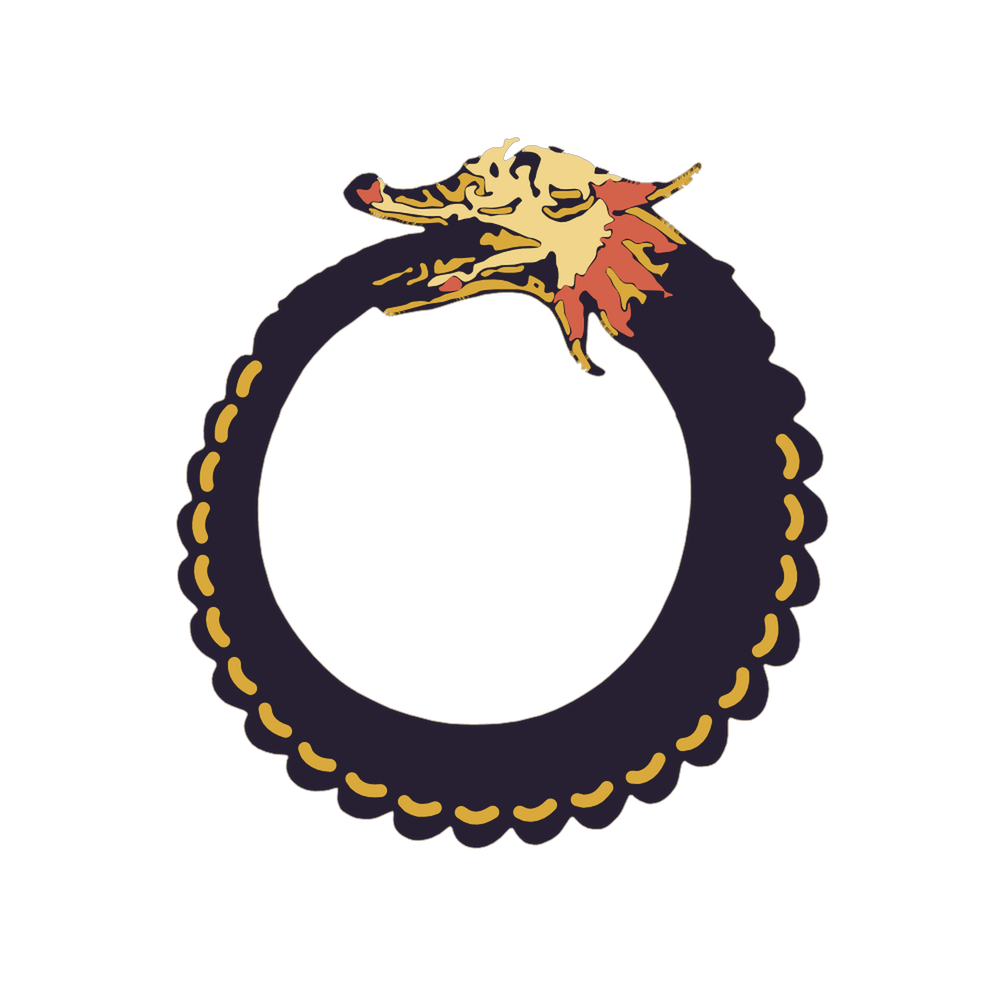
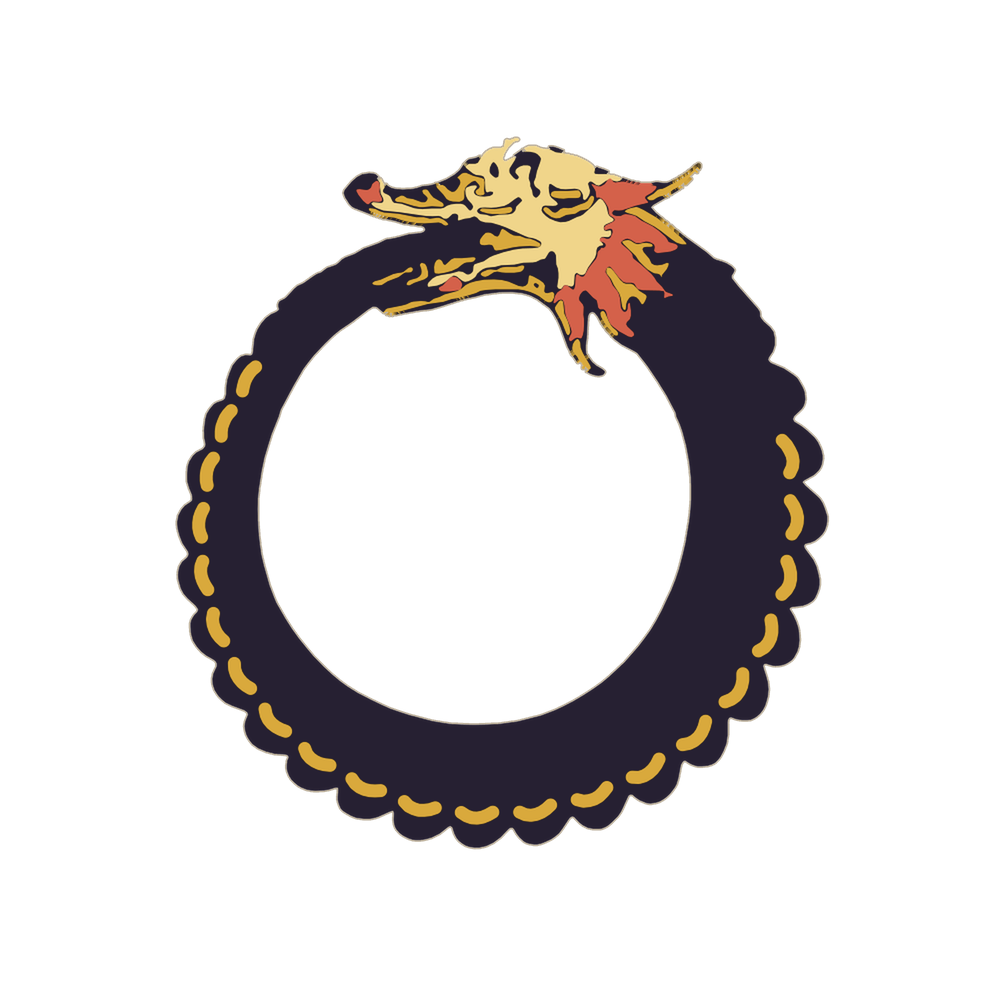
HP-02: contrast in the figure measured and corrected; label placement; per-frame writes; Night contour
- rings and the tree's lines to --paper-faint (3:1 for a graphic); the lens sets back by tone, not opacity; a due label on an outer ring is no longer dimmed
- settleLabels(): a collision-aware pass over core, ring and due labels, capped so a label never reads as its neighbour's
- set() writes only what changed (JS per frame at 6x CPU: 4.3 -> 2.5 ms median)
- Night contour 0.85 -> 1.5 source px (2.6:1 -> 4.6:1 on a 1x screen)

Claude-Session: https://claude.ai/code/session_01Adgg7ZJ3R4V7yc68CAmixn

diff --git a/prototypes/homepage/homepage.js b/prototypes/homepage/homepage.js
@@ -56,7 +56,12 @@ function svg(tag, attrs = {}, parent) {
   if (parent) parent.appendChild(n);
   return n;
 }
-function set(n, attrs) { for (const [k, v] of Object.entries(attrs)) n.setAttribute(k, typeof v === 'number' ? f2(v) : v); }
+/* writes only what changed: most elements are still for most of the opening, and a write that changes nothing still costs a style invalidation (HP-02, timing under CPU throttling) */
+const lastSet = new WeakMap();
+function set(n, attrs) {
+  let m = lastSet.get(n); if (!m) lastSet.set(n, m = {});
+  for (const [k, v] of Object.entries(attrs)) { const val = typeof v === 'number' ? f2(v) : v; if (m[k] !== val) { m[k] = val; n.setAttribute(k, val); } }
+}
 const store = {
   get(k) { try { return localStorage.getItem(k); } catch (e) { return null; } },
   set(k, v) { try { localStorage.setItem(k, v); } catch (e) { /* private mode */ } },
@@ -379,6 +384,8 @@ async function buildFigure() {
   const beadEls = beads.beads.map(() => svg('ellipse', { rx: 0, ry: 0, opacity: 0, class: 'bead' }, L.mark));
 
   /* ---- one frame of the opening */
+  let tkNext = null, sideOp = null;
+  const sidePanels = [...document.querySelectorAll('.hp-side')];
   const gold = () => (theme() === 'light' ? [184, 145, 58] : [217, 169, 60]);
   function frame(t) {
     /* the mark grows and turns counter-clockwise, head first, from upside down */
@@ -400,7 +407,7 @@ async function buildFigure() {
       const r0 = Math.hypot(x0, y0), a = Math.atan2(y0, x0), r = r0 + (RC - r0) * mv, sz = kk * (1 - 0.3 * mv);
       const X = CX + r * Math.cos(a), Y = CY + r * Math.sin(a);
       set(beadEls[i], { cx: X, cy: Y, rx: b[2] * sz, ry: b[3] * sz, transform: `rotate(${f2(b[4] + rot)} ${f2(X)} ${f2(Y)})`, opacity: on * (1 - gone) });
-      beadEls[i].setAttribute('fill', col);
+      if (beadEls[i].__fill !== col) { beadEls[i].__fill = col; beadEls[i].setAttribute('fill', col); }
     });
     /* the tree, drawn in reading order */
     for (const l of treeLines) set(l.el, { 'stroke-dashoffset': 1 - lin(t, l.st, l.st + 0.25) });
@@ -418,7 +425,7 @@ async function buildFigure() {
       r.dots.forEach((d) => set(d, { opacity: seg(t, r.d, r.d + 0.4) }));
     }
     /* one link back to the ticker's next deadline, once */
-    const tk = $('.sop-ticker .tk-next');
+    const tk = tkNext || (tkNext = $('.sop-ticker .tk-next'));
     if (tk) tk.classList.toggle('hp-lit', t >= 2.75 && t < 3.6);
     const qq = lin(t, 2.75, 3.35);
     for (const c of coreEls) {
@@ -427,7 +434,7 @@ async function buildFigure() {
     }
     /* the panels settle in last */
     const settle = seg(t, 2.6, 3.0);
-    for (const p of document.querySelectorAll('.hp-side')) p.style.opacity = String(settle);
+    const so = String(settle); if (so !== sideOp) { sideOp = so; for (const p of sidePanels) p.style.opacity = so; }
   }
 
   /* ---- interactions: hover and focus name a part or an instrument */
@@ -537,6 +544,60 @@ async function buildFigure() {
     (noPart.length ? `<p class="hp-k">Core instruments with no part of the brief recorded</p><ul>${noPart.map(instLi).join('')}</ul>` : '') +
     ['mapped', 'watched', 'excluded'].map((k) => `<p class="hp-k">${k} · ${outer[k].length}</p><p class="hp-list-names">${outer[k].map((i) => esc(i.short_name) + (counted.has(i.id) ? ` (adjacent, ${esc(taxLabel(ix, statusPart(i)) || 'status not recorded')})` : '')).join(' · ')}</p>`).join('');
   if (window.matchMedia('(max-width: 640px)').matches) $('#hpList').open = true;
+
+  /* ---- labels: a greedy pass that moves a label which would sit on a mark or on another label (HP-02).
+     It measures every label and mark in BOTH lens states (the due dates widen a label), then tries small shifts of each core
+     and ring label in order of distance and keeps the first that clears everything by MARGIN units. Placement only: nothing here
+     reads or writes data. What it moved and what it could not resolve is left in window.__hpLabels, for the review recordings. */
+  function settleLabels() {
+    const MARGIN = 3, MAXMOVE = 26, lensOn = fig.classList.contains('lens-due');
+    const marks = [...fig.querySelectorAll('a.mk, g.dot-g .mk-in, g.dot-g circle.duering')];
+    const texts = [...fig.querySelectorAll('text.lb, text.ring-lb, text.cap')];
+    const box = new Map();
+    for (const on of [false, true]) {
+      fig.classList.toggle('lens-due', on);
+      for (const e of [...marks, ...texts]) {
+        const b = e.getBBox(); if (!b.width && !b.height) continue;          // not rendered in this state
+        const o = { x: b.x, y: b.y, r: b.x + b.width, b: b.y + b.height }, u = box.get(e);
+        box.set(e, u ? { x: Math.min(u.x, o.x), y: Math.min(u.y, o.y), r: Math.max(u.r, o.r), b: Math.max(u.b, o.b) } : o);
+      }
+    }
+    fig.classList.toggle('lens-due', lensOn);
+    const hit = (a, b) => a.x < b.r + MARGIN && b.x < a.r + MARGIN && a.y < b.b + MARGIN && b.y < a.b + MARGIN;
+    const shifted = (b, dx, dy) => ({ x: b.x + dx, y: b.y + dy, r: b.r + dx, b: b.b + dy });
+    const dueOnly = [...fig.querySelectorAll('text.lb.due-only')].map((el) => {
+      const gx = +el.getAttribute('x') + 14, gy = +el.getAttribute('y') - 4, d = Math.hypot(gx - CX, gy - CY) || 1;   // the due label sits left of its dot: move it away from the centre
+      return { el, own: el.parentNode.querySelector('.mk-in'), max: 34, ax: (gx - CX) / d, ay: (gy - CY) / d };   // beside its own dot, so it may travel a little further
+    });
+    const movers = [
+      ...dueOnly,
+      ...coreEls.map((c) => ({ el: c.lb, own: c.el, ax: Math.cos(rad(c.a)), ay: Math.sin(rad(c.a)) })),
+      ...ringEls.map((r) => ({ el: r.lb, own: null, ax: 1, ay: 0 })),
+    ];
+    const report = { moved: [], unresolved: [] };
+    for (const m of movers) {
+      const b0 = box.get(m.el); if (!b0) continue;
+      const tx = -m.ay, ty = m.ax;                                         // the tangent
+      const cands = [];
+      const hw = (b0.r - b0.x) / 2 + 4;                                   // half the label: start or end it at its own mark instead of centring on it
+      for (const r of [0, 6, 12, 18, 24, 32]) for (const t of [0, 8, -8, 16, -16, 24, -24, 36, -36, hw, -hw]) cands.push([m.ax * r + tx * t, m.ay * r + ty * t]);
+      /* a label stays within MAXMOVE of where it was: further, it reads as the name of the NEXT mark along, which is worse than touching */
+      cands.sort((p, q) => Math.hypot(...p) - Math.hypot(...q));
+      while (cands.length && Math.hypot(...cands[cands.length - 1]) > (m.max || MAXMOVE)) cands.pop();
+      const others = [...marks.filter((e) => e !== m.own).map((e) => box.get(e)), ...texts.filter((e) => e !== m.el).map((e) => box.get(e))].filter(Boolean);
+      const ok = ([dx, dy]) => { const c = shifted(b0, dx, dy); return !others.some((o) => hit(c, o)); };
+      const pick = cands.find(ok);
+      const name = (m.el.textContent || '').trim().slice(0, 28);
+      if (!pick) { report.unresolved.push(name); continue; }
+      if (pick[0] || pick[1]) {
+        m.el.setAttribute('x', String(+m.el.getAttribute('x') + pick[0])); m.el.setAttribute('y', String(+m.el.getAttribute('y') + pick[1]));
+        box.set(m.el, shifted(b0, pick[0], pick[1])); report.moved.push([name, Math.round(pick[0] * 10) / 10, Math.round(pick[1] * 10) / 10]);
+      }
+    }
+    window.__hpLabels = report;
+  }
+  await document.fonts.ready;
+  settleLabels();
 
   /* ---- play the opening once, or show the figure as it ends */
   let raf = 0;

diff --git a/prototypes/homepage/homepage.css b/prototypes/homepage/homepage.css
@@ -60,12 +60,13 @@
 .hp-cap-list{list-style:none;margin:0;padding:0;display:grid;gap:4px;font-family:var(--mono);font-size:11px;color:var(--paper)}
 
 /* ---------- the figure */
-.hp-fig .ring{fill:none;stroke:var(--ink-3);stroke-width:1.2}
+/* the rings and the tree's lines are the figure's structure: --paper-faint, the site's own AA-cleared tertiary tone, reaches 3:1 for a graphic where --ink-3 (1.3-1.6:1) did not (HP-02, measured) */
+.hp-fig .ring{fill:none;stroke:var(--paper-faint);stroke-width:1.2}
 .hp-fig .ring.dash{stroke-dasharray:4 4}
 .hp-fig .ring-lb{font-family:var(--mono);font-size:9px;letter-spacing:.1em;fill:var(--paper-faint)}
 .hp-fig .disc{fill:var(--live);fill-opacity:.06;stroke:var(--paper);stroke-width:1.6}
 body[data-theme="light"] .hp-fig .disc{fill-opacity:.13}
-.hp-fig .tl{stroke:var(--ink-3);stroke-width:1.2;fill:none}
+.hp-fig .tl{stroke:var(--paper-faint);stroke-width:1.2;fill:none}
 .hp-fig .tn-c{fill:var(--ink-0);stroke:var(--paper-dim);stroke-width:1.3}
 .hp-fig .tn.annex .tn-c{stroke-dasharray:3 2}
 .hp-fig .tn-t{font-family:var(--mono);font-size:8px;fill:var(--paper);pointer-events:none}
@@ -103,10 +104,20 @@ body[data-theme="light"] .hp-fig .disc{fill-opacity:.13}
 .hp-fig .lb .dd{fill:var(--live)}
 .hp-fig.lens-due .duering,.hp-fig.lens-due .due-only,.hp-fig.lens-due .lb .dd{display:inline}
 .hp-fig.lens-due .due-only{fill:var(--live)}
-.hp-fig.lens-due .mk:not(.due) .mk-in,.hp-fig.lens-due .dot-g:not(.due) .mk-in{opacity:.25}
-.hp-fig.lens-due .lb:not(.due){opacity:.3}
+.hp-fig.lens-due .mk:not(.due) .mk-in .mk-s,.hp-fig.lens-due .mk:not(.due) .mk-in .mk-crit,
+.hp-fig.lens-due .dot-g:not(.due) .mk-in .mk-s,.hp-fig.lens-due .dot-g:not(.due) .mk-in .mk-crit{fill:var(--paper-faint)}
+.hp-fig.lens-due .mk:not(.due) .mk-in .mk-g,.hp-fig.lens-due .mk:not(.due) .mk-in .mk-slash,
+.hp-fig.lens-due .dot-g:not(.due) .mk-in .mk-g,.hp-fig.lens-due .dot-g:not(.due) .mk-in .mk-slash{stroke:var(--paper-faint)}
+/* what is not due is set back by TONE, not by opacity: an opacity of .25-.45 took the labels, marks and rings to 1.4-2.6:1 (measured);
+   --paper-faint holds 4.5:1 for text and 3:1 for a graphic on both themes. A due label on an outer ring is `lb due-only` and was dimmed
+   by the old `.lb:not(.due)` rule - it is now left alone. */
+.hp-fig.lens-due .lb:not(.due):not(.due-only){fill:var(--paper-faint)}
 .hp-fig.lens-due .lb.due{fill:var(--live)}
-.hp-fig.lens-due .ring,.hp-fig.lens-due .ring-lb,.hp-fig.lens-due .tl,.hp-fig.lens-due .tn{opacity:.45}
+/* --live as TEXT is 3.84:1 on Day (a site-wide token); on Day the due label and the caption heading take --paper and rely on the ring and the weight */
+body[data-theme="light"] .hp-fig.lens-due .lb.due,body[data-theme="light"] .hp-fig.lens-due .due-only,
+body[data-theme="light"] .hp-fig .lb .dd{fill:var(--paper)}
+body[data-theme="light"] .hp-cap-k{color:var(--paper-dim)}
+.hp-fig.lens-due .lb.due,.hp-fig.lens-due .due-only{font-weight:600}
 
 /* the ticker's next deadline, lit once at the end of the opening */
 .sop-ticker .tk-next{transition:box-shadow .35s}

diff --git a/prototypes/homepage/assets/derive-serpent.py b/prototypes/homepage/assets/derive-serpent.py
@@ -3,7 +3,7 @@
 Colour segmentation and connectivity only: nothing is traced, redrawn or recoloured except the two
 things the opening needs and HP-01 already did on the icon: the beads are painted over with the body's
 own ink (they are drawn by the page as shapes), and the Night variant lifts that ink to --ink-2 and adds
-a fine --paper-dim contour.  Run:  python3 -I derive.py <original.png> <outdir>
+a --paper-dim contour about 1 screen px wide (1.5 source px; 0.85 gave 2.6:1 on a 1x screen, HP-02).  Run:  python3 -I derive.py <original.png> <outdir>
 """
 import json, math, sys
 from collections import deque
@@ -130,7 +130,7 @@ save(rgb, al, f'{OUT}/serpent-mark.png')
 day_rgb, day_a = colour, alpha
 save(day_rgb, day_a, f'{OUT}/serpent-body-day.png')
 
-# --- Night: the body lifted to --ink-2 with a fine --paper-dim contour, computed at 4x and saved at 1x
+# --- Night: the body lifted to --ink-2 with a --paper-dim contour about 1 screen px wide (1.5 source px; 0.85 gave 2.6:1 on a 1x screen, HP-02), computed at 4x and saved at 1x
 K = 4
 big_a = np.array(Image.fromarray((alpha * 255).astype(np.uint8)).resize((N * K, N * K), Image.LANCZOS)).astype(float) / 255
 big_c = np.array(Image.fromarray(colour.round().astype(np.uint8)).resize((N * K, N * K), Image.LANCZOS)).astype(float)
@@ -138,7 +138,7 @@ inkish = (np.sqrt(((big_c - INK) ** 2).sum(-1)) < 30)
 lifted = np.where(inkish[..., None], INK2, big_c)
 lifted[inkish] = INK2
 # contour: a band of width w source px, just outside the silhouette edge, drawn in --paper-dim
-w = 0.85 * K
+w = 1.5 * K
 sil = (big_a > 0.5)
 dil = sil.copy()
 r = int(math.ceil(w))
